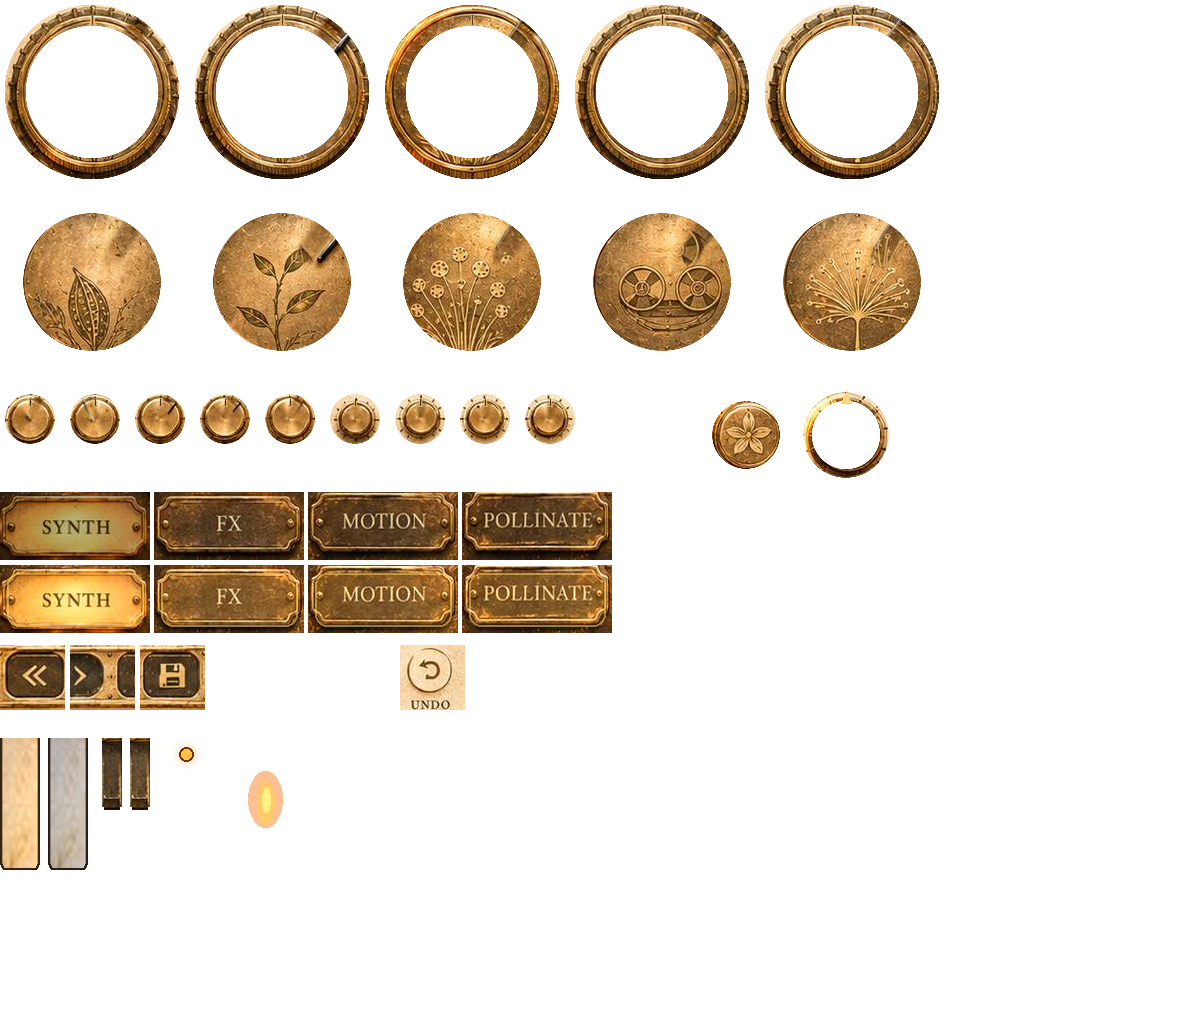
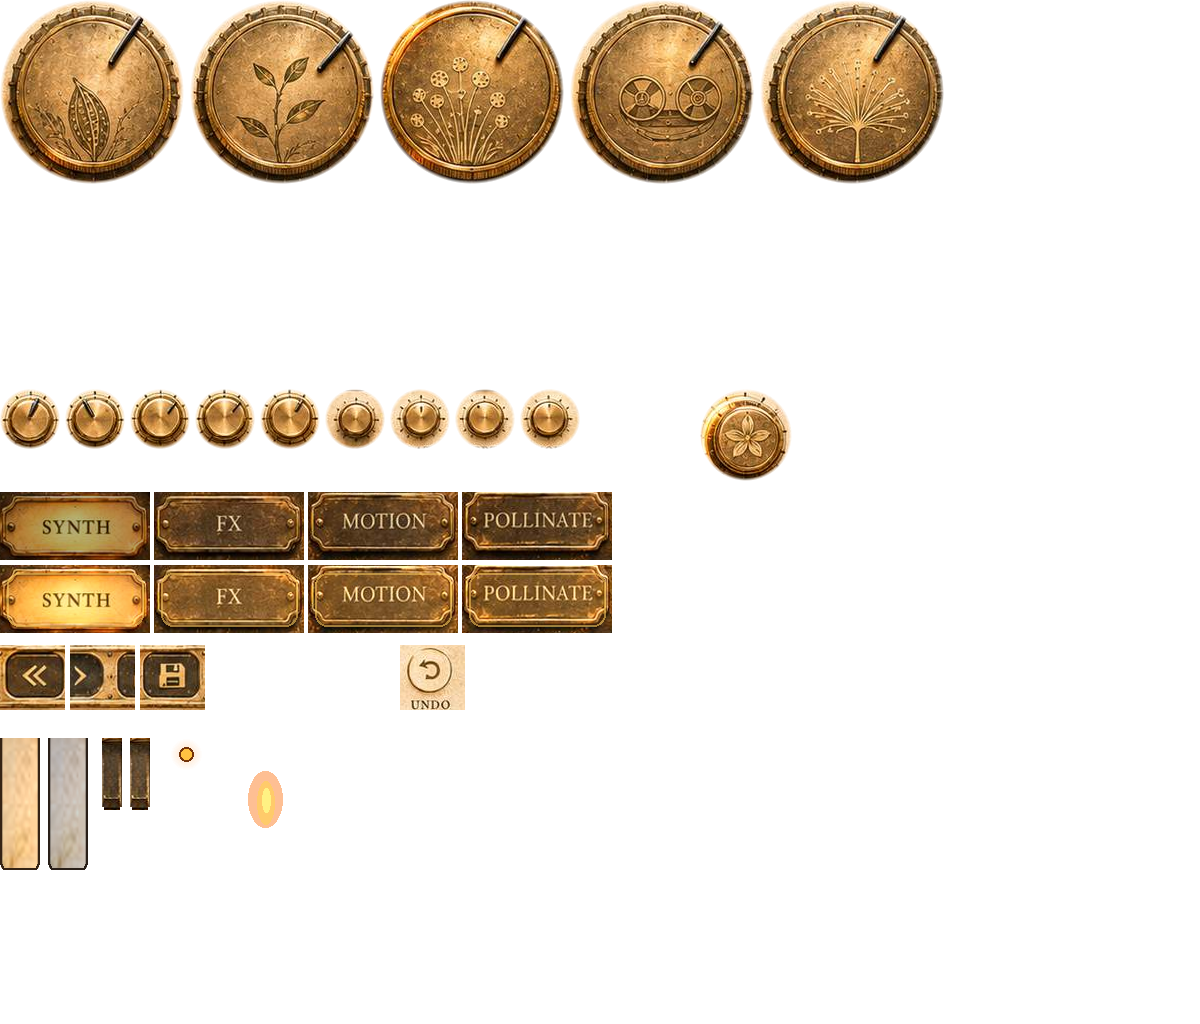
Replace duplicated dial overlays with single-piece botanical brass knob sprites and visual smoke tests

Changed region(s): [[0.0, 0.0, 0.8017, 0.3438], [0.0, 0.375, 0.4933, 0.4375], [0.5858, 0.375, 0.74, 0.4688]]

diff --git a/src/plugin/PluginEditor.cpp b/src/plugin/PluginEditor.cpp
@@ -35,11 +35,11 @@ BotanicalLookAndFeel::BotanicalLookAndFeel(){
  hardware=ImageCache::getFromMemory(BinaryData::hardware_png,BinaryData::hardware_pngSize);
  if(!hardware.isValid())return;
  auto crop=[this](int x,int y,int w,int h){return hardware.getClippedImage({x,y,w,h});};
- for(int i=0;i<5;++i){rings[i]=crop(i*190,0,184,184);medallions[i]=crop(i*190,190,184,184);}
+ for(int i=0;i<5;++i)largeKnobs[i]=crop(i*190,0,184,184);
  for(int i=0;i<9;++i)smallKnobs[i]=crop(i*65,389,60,60);
  for(int i=0;i<4;++i){tabNormal[i]=crop(i*154,492,150,68);tabLit[i]=crop(i*154,565,150,68);}
  for(int i=0;i<3;++i)presetHardware[i]=crop(i*70,645,65,65);
- flower=crop(700,389,92,92);flowerRing=crop(800,389,92,92);
+ flower=crop(700,389,92,92);
  whiteUp=crop(0,738,40,132);whiteDown=crop(48,738,40,132);
  blackUp=crop(102,738,20,72);blackDown=crop(130,738,20,72);
  led=crop(170,738,32,32);flameSprite=crop(230,736,70,100);
@@ -52,24 +52,21 @@ void BotanicalLookAndFeel::drawRotarySlider(Graphics&g,int x,int y,int w,int h,f
  const int i=indexOf(slider.getName());if(i<0)return;
  const float cx=x+w*.5f,cy=y+h*.5f;
  const Rectangle<float> dest{float(x),float(y),float(w),float(h)};
- const float angle=-2.34f+juce::jlimit(0.f,1.f,value)*4.68f;
- if(i<5){
-  // Botanical medallion is a fixed, independently fabricated inlay.
-  paintSprite(g,medallions[unsigned(i)],dest);
-  // Only the metal rim, including its integral pointer, rotates.
-  Graphics::ScopedSaveState guard(g);
-  g.addTransform(AffineTransform::rotation(angle,cx,cy));
-  paintSprite(g,rings[unsigned(i)],dest);
-  if(i==2){
-   g.setColour(amber.withAlpha(.09f+.08f*value));
-   g.drawEllipse(dest.reduced(8.f),2.f);
-  }
- }else{
-  const int j=i>=11?6+(i-11)%3:i-5;
-  Graphics::ScopedSaveState guard(g);
-  g.addTransform(AffineTransform::rotation(angle,cx,cy));
-  paintSprite(g,smallKnobs[unsigned(j)],dest);
- }
+ const bool large=i<5;
+ const int smallIndex=large?0:(i>=11?6+(i-11)%3:i-5);
+ const Image& sprite=large?largeKnobs[unsigned(i)]:smallKnobs[unsigned(smallIndex)];
+ if(!sprite.isValid())return;
+ // Like Steamstrip: ONE photographed, transparent brass knob rotates as a rigid body.
+ // No second ring, no stationary pointer on the medallion, no baked knob on the plate.
+ // Calibrate each asset's photographed pointer angle so MIDI/host automation and
+ // mouse dragging agree with the printed -134 to +134 degree dial scale.
+ constexpr float photographedLarge=.61f;
+ constexpr float photographedSmall[9]={.38f,-.50f,.42f,.35f,.35f,-.12f,0.f,0.f,0.f};
+ const float photographed=large?photographedLarge:photographedSmall[smallIndex];
+ const float angle=-2.34f+juce::jlimit(0.f,1.f,value)*4.68f-photographed;
+ Graphics::ScopedSaveState guard(g);
+ g.addTransform(AffineTransform::rotation(angle,cx,cy));
+ paintSprite(g,sprite,dest);
 }
 void BotanicalLookAndFeel::drawButtonBackground(Graphics&g,Button& b,const Colour&,bool hover,bool down){
  const auto id=b.getName();
@@ -88,14 +85,12 @@ void BotanicalLookAndFeel::drawButtonBackground(Graphics&g,Button& b,const Colou
  }
  if(id=="pollinate_main"){
   const float pulse=.5f+.5f*std::sin(pollinationPhase);
-  g.setColour(amber.withAlpha(.08f+.20f*pulse));g.fillEllipse(r.expanded(2.f));
+  g.setColour(amber.withAlpha(.07f+.15f*pulse));g.fillEllipse(r.expanded(2.f));
+  // Complete carved flower knob. Never superimpose a second translucent ring.
+  Graphics::ScopedSaveState guard(g);
+  g.addTransform(AffineTransform::rotation(.045f*std::sin(pollinationPhase),r.getCentreX(),r.getCentreY()));
   paintSprite(g,flower,r);
-  {
-   Graphics::ScopedSaveState guard(g);
-   g.addTransform(AffineTransform::rotation(.1f+pollinationPhase*.20f,r.getCentreX(),r.getCentreY()));
-   paintSprite(g,flowerRing,r);
-  }
-  if(hover){g.setColour(amber.withAlpha(.24f));g.drawEllipse(r.reduced(3.f),2.f);}
+  if(hover){g.setColour(amber.withAlpha(.16f));g.drawEllipse(r.reduced(3.f),1.5f);}
   return;
  }
  if(id=="undo"){

diff --git a/tools/rebuild_knobs.py b/tools/rebuild_knobs.py
@@ -1,0 +1,66 @@
+#!/usr/bin/env python3
+"""Rebuild real SteamSynth knob sprites from the original botanical painting.
+
+Only the knobs are rotatable: the printed scales, labels and botanical landscape
+remain in the stationary plate.  Each rotary is a SINGLE transparent RGBA
+sprite (engraved brass body + ONE pointer) and rotates as a rigid assembly.
+
+Requirements for asset authoring only: Pillow, numpy, opencv-python.
+Run from the repository root: python tools/rebuild_knobs.py
+"""
+from pathlib import Path
+import argparse
+import cv2
+import numpy as np
+from PIL import Image, ImageDraw
+
+LARGE = [(345,306),(600,306),(850,306),(1100,306),(1360,306)]
+SMALL = [(279,666),(383,666),(580,666),(683,666),(779,666),
+         (196,838),(1308,832),(1393,832),(1476,832)]
+POLLINATE = (1035,666)
+
+def round_sprite(original, x, y, size, edge, feather):
+    half=size//2
+    crop=original.crop((x-half,y-half,x+half,y+half))
+    yy,xx=np.ogrid[:size,:size]
+    dist=np.hypot(xx-(size-1)/2,yy-(size-1)/2)
+    alpha=np.uint8(np.round(np.clip((edge-dist)/feather,0,1)*255))
+    crop.putalpha(Image.fromarray(alpha))
+    return crop
+
+def rebuild(reference, plate_file, hardware_file):
+    original=Image.open(reference).convert('RGBA')
+    plate=np.asarray(Image.open(plate_file).convert('RGB')).copy()
+    assert original.size==(1600,900) and plate.shape[:2]==(900,1600)
+    mask=np.zeros((900,1600),np.uint8)
+    # Eliminate ALL baked-in ring/shaft/pointer pixels, not merely the center.
+    for xy in LARGE:cv2.circle(mask,xy,95,255,-1)
+    for xy in SMALL:cv2.circle(mask,xy,31,255,-1)
+    cv2.circle(mask,POLLINATE,46,255,-1)
+    plate=cv2.cvtColor(cv2.inpaint(cv2.cvtColor(plate,cv2.COLOR_RGB2BGR),mask,5,cv2.INPAINT_TELEA),cv2.COLOR_BGR2RGB)
+    Image.fromarray(plate).save(plate_file,quality=94,subsampling=0)
+    atlas=Image.open(hardware_file).convert('RGBA')
+    assert atlas.size==(1200,1024)
+    painter=ImageDraw.Draw(atlas)
+    # Five COMPLETE large knobs. The former ring/medallion double-rendering is gone.
+    for i,(x,y) in enumerate(LARGE):
+        painter.rectangle((i*190,0,i*190+183,183),fill=(0,0,0,0))
+        painter.rectangle((i*190,190,i*190+183,373),fill=(0,0,0,0))
+        atlas.alpha_composite(round_sprite(original,x,y,184,92,4),(i*190,0))
+    # Nine smaller brass controls, each with its own integrated marker.
+    for i,(x,y) in enumerate(SMALL):
+        painter.rectangle((i*65,389,i*65+59,448),fill=(0,0,0,0))
+        atlas.alpha_composite(round_sprite(original,x,y,60,30.2,3.4),(i*65,389))
+    # Pollinate gets a real carved flower dial rather than two translucent overlays.
+    painter.rectangle((700,389,791,480),fill=(0,0,0,0))
+    atlas.alpha_composite(round_sprite(original,*POLLINATE,92,46,3.5),(700,389))
+    # Former independent ring is no longer drawn, but clear it to prevent regression.
+    painter.rectangle((800,389,891,480),fill=(0,0,0,0))
+    atlas.save(hardware_file,optimize=True)
+
+if __name__=='__main__':
+    p=argparse.ArgumentParser()
+    p.add_argument('--root',type=Path,default=Path(__file__).resolve().parents[1])
+    a=p.parse_args(); ui=a.root/'assets/ui'
+    rebuild(ui/'reference_original.jpg',ui/'plate.jpg',ui/'hardware.png')
+    print('Created 5 large + 9 small + 1 Pollinate independent rotatable sprites')

diff --git a/tests/ui_asset_check.py b/tests/ui_asset_check.py
@@ -1,25 +1,43 @@
-"""Checks that SteamSynth's interactive layers exist as independent sprites.
-This intentionally rejects a single flat screenshot as a substitute for controls.
+"""Fail CI if SteamSynth falls back to fake/duplicated knob overlays.
+
+Checks that the visual instrument uses independently fabricated RGBA hardware,
+not a flattened UI image with a second, misaligned rim painted on top.
 """
 from pathlib import Path
-from PIL import Image
+from PIL import Image, ImageChops
+import numpy as np
 p=Path(__file__).resolve().parents[1]/'assets'/'ui'
-plate=Image.open(p/'plate.jpg')
+plate=Image.open(p/'plate.jpg').convert('RGB')
 a=Image.open(p/'hardware.png').convert('RGBA')
 assert plate.size==(1600,900)
 assert a.size==(1200,1024)
-# Five stationary engraved medallions and five annular rotating rims.
+# Five coherent one-piece brass knobs, each with its engraved face and pointer.
 for i in range(5):
  x=i*190
- assert a.getpixel((x+92,92))[3]==0, 'Knob rim must be hollow: motif stays stationary'
- assert a.getpixel((x+92,282))[3]>200, 'Botanical medallion missing'
- assert a.getpixel((x+92,17))[3]>100, 'Rotating brass indicator missing'
-# Separate interactive tabs in both states.
+ sprite=a.crop((x,0,x+184,184))
+ assert sprite.getpixel((92,92))[3]>245, f'Knob {i}: missing face'
+ assert sprite.getpixel((92,8))[3]>150, f'Knob {i}: missing rim'
+ assert sprite.getpixel((2,2))[3]==0, f'Knob {i}: no transparent corner'
+ assert a.getpixel((x+92,282))[3]==0, f'Knob {i}: old second medallion still present'
+ assert ImageChops.difference(sprite,sprite.rotate(80)).getbbox() is not None
+ # The source plate must not retain the old engraved brass face underneath.
+ cx=[345,600,850,1100,1360][i]
+ r,g,b=plate.getpixel((cx,306))
+ assert min(r,g,b)>70, f'Knob {i}: dirty static faceplate under dial'
+# Small knob sprites have their own alpha and full metal bodies.
+for i in range(9):
+ x=i*65
+ assert a.getpixel((x+30,419))[3]>245, f'Small knob {i}: missing'
+ assert a.getpixel((x,389))[3]==0, f'Small knob {i}: unmasked rectangle'
+# Pollinate is a real, opaque engraved flower control, not a pale overlay.
+assert a.getpixel((746,435))[3]>245
+assert a.getpixel((800+46,435))[3]==0, 'Old floating flower ring remains'
+# Four independently rendered tabs, in both lit and unlit states.
 for i in range(4):
  assert a.getpixel((i*154+75,526))[3]>200
  assert a.getpixel((i*154+75,599))[3]>200
-# Ivory and ebony keys must be independent alpha sprites, not a painted keyboard screenshot.
-for x,y in [(20,760),(68,760),(112,760),(140,760)]:assert a.getpixel((x,y))[3]>0
-# The keybed has been cleared in the base art and can be repainted key-by-key.
+# Keyboard is rendered from separate transparent white and black key assets.
+for x,y in [(20,760),(68,760),(112,760),(140,760)]:
+ assert a.getpixel((x,y))[3]>0
 assert plate.getpixel((600,800))!=(255,255,255)
-print('PASS: botanical plate, five separate rotating rims, fixed medallions, 4 interactive tab pairs, individual key sprites')
+print('PASS: 5 coherent brass dials, 9 small dials, pollinate, lit tabs, keyboard; no duplicated rims')

diff --git a/tests/plugin_smoke.cpp b/tests/plugin_smoke.cpp
@@ -31,7 +31,6 @@ int main(){
  auto editor=std::unique_ptr<juce::AudioProcessorEditor>(processor.createEditor());
  if(!editor||editor->getWidth()!=1600||editor->getHeight()!=900)return 4;
  // Paint the ACTUAL complete editor (children included) to a diagnostic PNG.
- // This exposes white keyboard overlays, missing assets and broken component geometry.
  juce::Image image(juce::Image::ARGB,1600,900,true);
  juce::Graphics graphics(image);
  editor->paintEntireComponent(graphics,true);
@@ -41,7 +40,35 @@ int main(){
  auto stream=file.createOutputStream();
  if(!stream||!juce::PNGImageFormat().writeImageToStream(image,*stream))return 6;
  stream->flush();
+ // Verify each major knob is a LIVE rendered control, not a painted backdrop.
+ struct Control {const char* id;int x,y;};
+ const Control controls[]={
+  {"seed",345,306},{"grow",600,306},{"mutate",850,306},
+  {"dirt",1100,306},{"bloom",1360,306},
+  {"attack",279,666},{"echoMix",779,666}
+ };
+ for(const auto& c:controls){
+  auto* parameter=processor.state.getParameter(c.id);
+  if(!parameter)return 7;
+  parameter->setValueNotifyingHost(.13f);
+  juce::Image low(juce::Image::ARGB,1600,900,true);
+  juce::Graphics lowGraphics(low);editor->paintEntireComponent(lowGraphics,true);
+  parameter->setValueNotifyingHost(.87f);
+  juce::Image high(juce::Image::ARGB,1600,900,true);
+  juce::Graphics highGraphics(high);editor->paintEntireComponent(highGraphics,true);
+  int changed=0;
+  const int r=(c.x>300&&c.y==306)?70:23;
+  for(int y=c.y-r;y<c.y+r;y+=4)for(int x=c.x-r;x<c.x+r;x+=4){
+   const auto a=low.getPixelAt(x,y),b=high.getPixelAt(x,y);
+   if(std::abs(int(a.getRed())-int(b.getRed()))+
+      std::abs(int(a.getGreen())-int(b.getGreen()))+
+      std::abs(int(a.getBlue())-int(b.getBlue()))>35)++changed;
+  }
+  if(changed<20){std::cerr<<"FAIL: knob not visually responding: "<<c.id<<" pixels="<<changed<<"\n";return 8;}
+  // The scale printed ABOVE the knob must not rotate or move.
+  if(c.y==306&&low.getPixelAt(c.x,200)!=high.getPixelAt(c.x,200))return 9;
+ }
  editor.reset();processor.releaseResources();
- std::cout<<"PASS: MIDI, bounded audio, state, pollination, presets, layered editor, rendered UI screenshot\n";
+ std::cout<<"PASS: MIDI, bounded audio, state, pollination, presets, 7 interactive brass knobs, rendered UI screenshot\n";
  return 0;
 }

diff --git a/src/plugin/PluginEditor.h b/src/plugin/PluginEditor.h
@@ -19,11 +19,11 @@ public:
  juce::Image flame() const {return flameSprite;}
 private:
  juce::Image hardware;
- std::array<juce::Image,5> rings,medallions;
+ std::array<juce::Image,5> largeKnobs;
  std::array<juce::Image,9> smallKnobs;
  std::array<juce::Image,4> tabNormal,tabLit;
  std::array<juce::Image,3> presetHardware;
- juce::Image flower,flowerRing,whiteUp,whiteDown,blackUp,blackDown,led,flameSprite,undoSprite;
+ juce::Image flower,whiteUp,whiteDown,blackUp,blackDown,led,flameSprite,undoSprite;
  float pollinationPhase=0.f;
  static void paintSprite(juce::Graphics&,const juce::Image&,juce::Rectangle<float>);
 };
